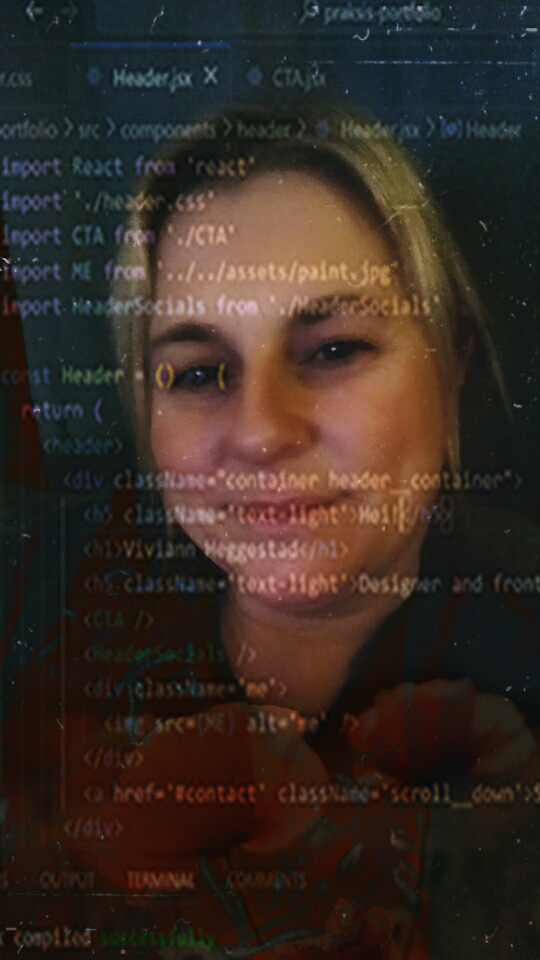
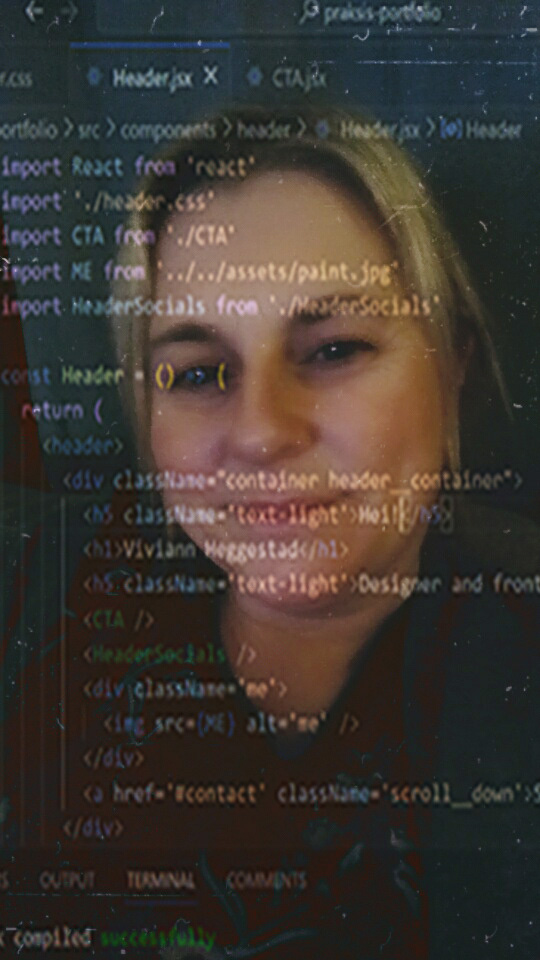
changed header

diff --git a/src/components/header/Header.jsx b/src/components/header/Header.jsx
@@ -3,6 +3,7 @@ import './header.css'
 import CTA from './CTA'
 import ME from '../../assets/paint.jpg'
 import ME2 from '../../assets/me.jpg'
+import ME3 from '../../assets/me3.jpg'
 import HeaderSocials from './HeaderSocials'
 
 const Header = () => {
@@ -11,7 +12,7 @@ const Header = () => {
       <div className="container header__container">
         <h5 className='text-light'>Hei!</h5>
         <h1>Viviann Heggestad</h1>
-        <h5 className='text-light'>Designer and frontend utvikler</h5>
+        <h5 className='text-light'>Frontend utvikler, designer og blomster elsker</h5>
         <CTA />
         <HeaderSocials />
         <div className='me'>
@@ -19,6 +20,9 @@ const Header = () => {
         </div>
         <div className='me2'>
           <img src={ME2} alt='me2' />
+        </div>
+        <div className='me3'>
+          <img src={ME3} alt='me3' />
         </div>
         <a href='#contact' className='scroll__down'>Scroll Down</a>
       </div>

diff --git a/src/components/header/header.css b/src/components/header/header.css
@@ -79,6 +79,19 @@ h5 {
 
 }
 
+.me3 {
+    background: linear-gradient(var(--color-primary), transparent);
+    width: 22rem;
+    height: 30rem;
+    position: absolute;
+    left: 80%;
+    transform: translateX(-50%);
+    margin-top: 2rem;
+    overflow: hidden;
+    padding: 1.5rem 1.5rem 1.5rem 1.5rem;
+
+}
+
 /* ============== SCROLL DOWN ================ */
 .scroll__down {
     position: absolute;
